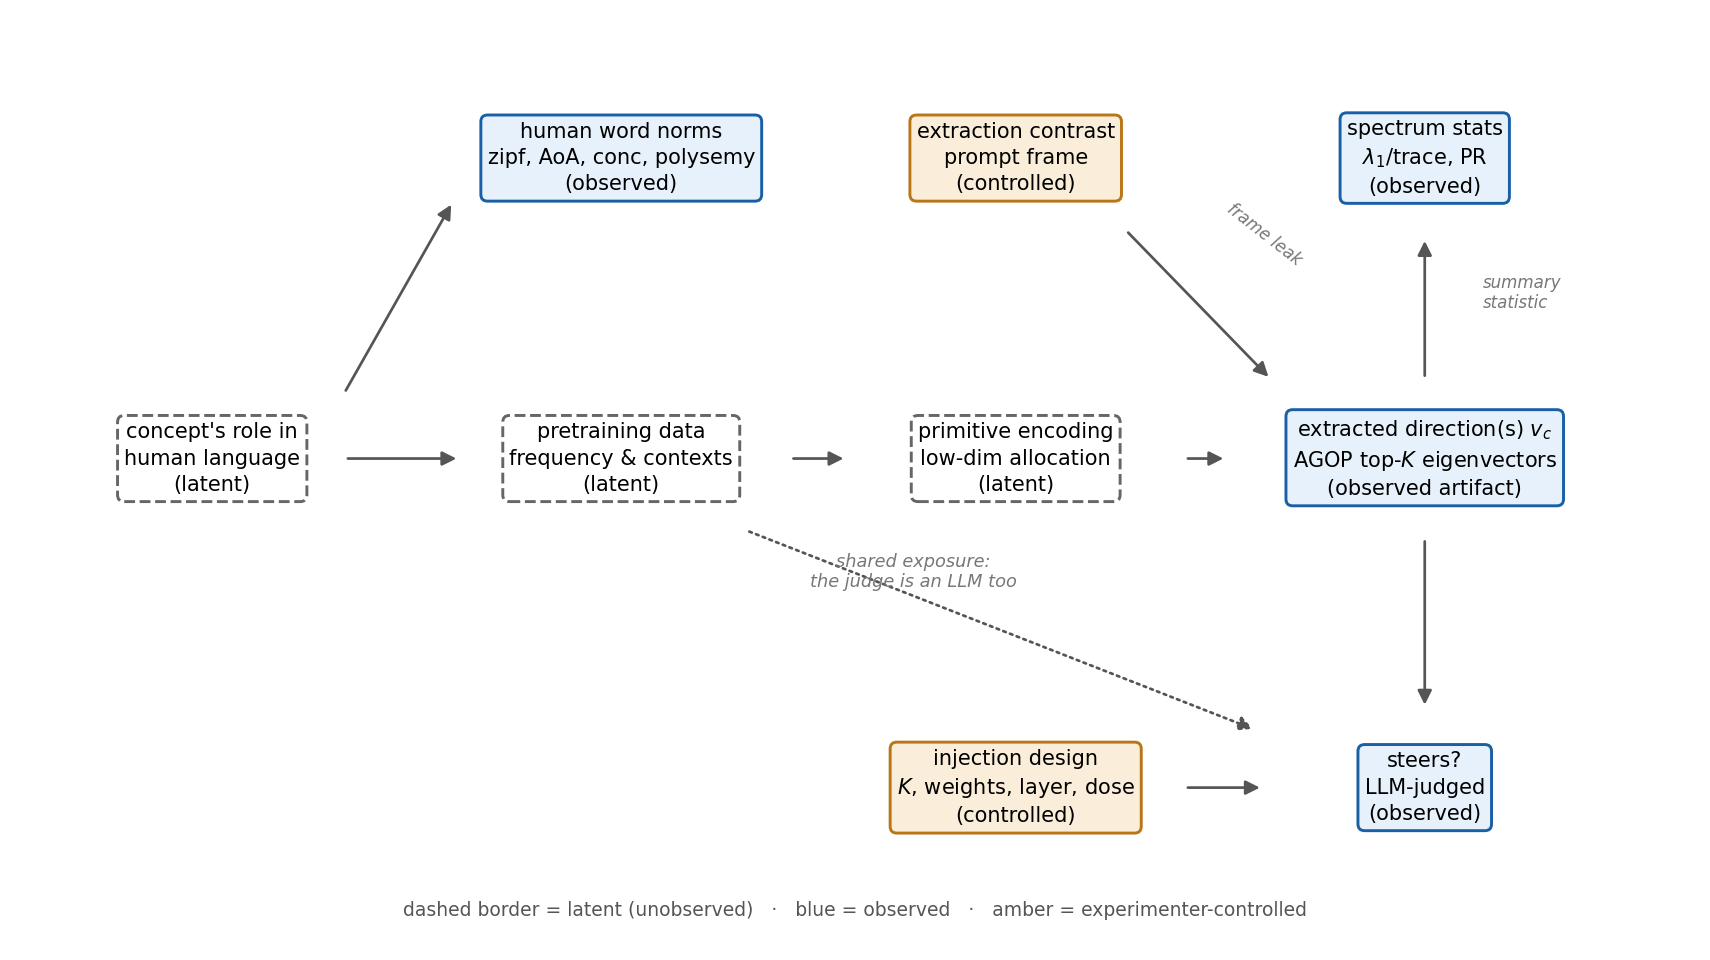
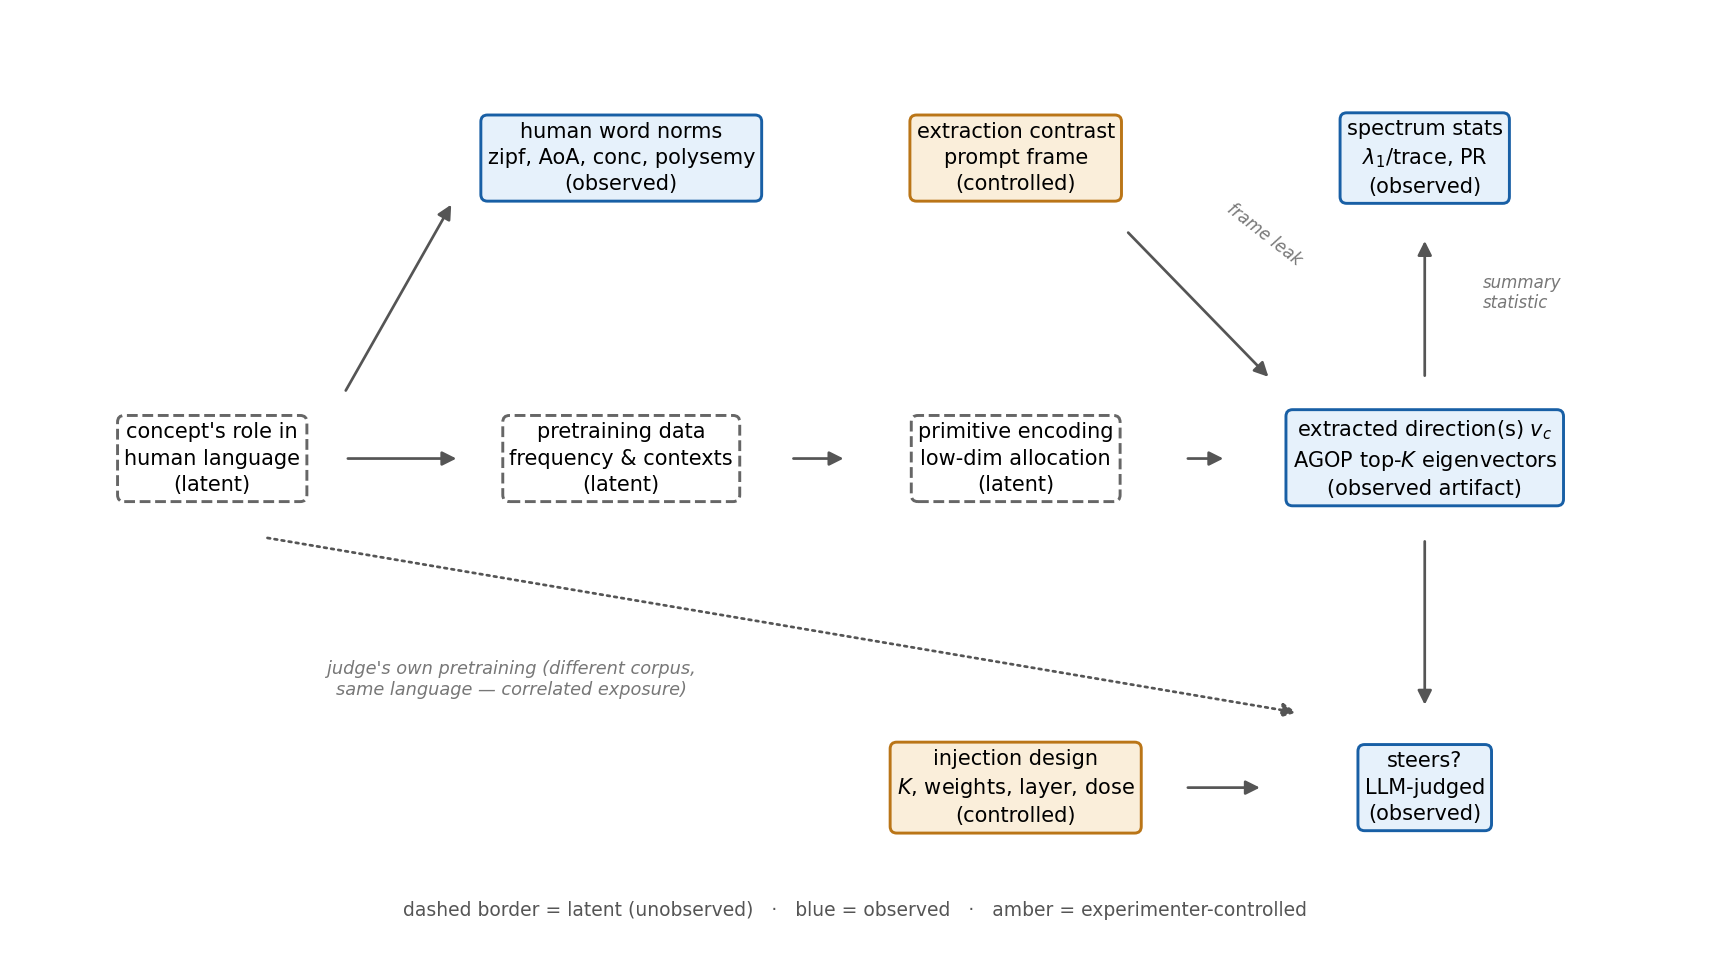
DAG corrections: judge confound rerouted via language ancestor (different corpus, correlated exposure; cross-judge agreement cited); mediation bullet honest about WordNet-grouping role and supersense coarseness

diff --git a/paper/main.tex b/paper/main.tex
@@ -223,15 +223,16 @@ experimenter-controlled. Psycholinguistic norms have no causal path into the
 model --- they predict steering only as proxies of the shared latent; the
 spectrum statistics are instrument-dependent summaries of the extracted
 direction, not the encoding itself; the dashed path marks the judge confound
-(shared pretraining exposure).}
+(the judge's own pretraining --- a different corpus, but correlated exposure
+through the same underlying language).}
 \label{fig:dag}
 \end{figure}
 
 \begin{outline}
 \item What makes a concept steerable: attributes (context-general colorings) admit a single injectable direction; instance identities require assembled, multi-stage content --- steering failure is usually \emph{delivery of the parent category}, not silence. (1 para)
 \item \textbf{What the spectral metrics are: an intervention-match score, with an instrument caveat.} Spectrum \emph{concentration} (low PR / high $\lambda_1$-share) measures how well the concept's discriminative signature fits the one move single-vector steering can make (one constant vector, all contexts); it predicts steering in both models. \textbf{The mechanism behind R2's reversal: \emph{abstract} (not concrete) concepts steer better} --- for concrete instance-like concepts the dominant direction is largely the shared category axis, so its coherence does not deliver the instance (parent-dominance). \textbf{And the caveat: spectral diagnostics of extracted directions are only interpretable relative to the contrast design that produced them} --- under the dual v2b frame $\lambda_1$/trace read as null because a frame-register axis could capture the top eigenvalue slot (Appendix~B); under the constant v4 prefix it predicts steering with the expected sign. (1 para)
-\item \textbf{[NEW jul12] A causal reading of the results (Figure~\ref{fig:dag}).} The concept's role in human language (latent) drives both the psycholinguistic norms --- observed proxies with \emph{no causal path into the model} --- and the concept's distribution in pretraining (latent), which determines whether the model allocates it a compact subspace (latent). The extracted direction $v_c$ is a \emph{joint} product of that allocation and the extraction contrast (the frame-leak arrow is the v2b lesson); the spectrum statistics are summary statistics of $v_c$; the outcome depends on $v_c$ and the injection design. Two consequences: (i) lexical coefficients surviving spectral controls is expected even under full mediation, because $\lambda_1$/trace is a noisy, instrument-dependent indicator of the latent allocation; (ii) the judge shares pretraining exposure with the steered model (dashed path) --- the prompted-ceiling control bounds, but does not eliminate, this. K$>$1's failure is a statement about the outcome node's structural equation: injection must match the allocation's weighting, possibly non-linearly, not merely its rank. (1 para + figure)
-\item \textbf{[NEW jul12] Mediation probe (executed): in Llama, concreteness works through the direction's \emph{global}-axis loading --- not the WordNet-category axis.} Each direction's shared-component loading decomposes into a global axis (sign-aligned mean of all 600 directions; mean $|\cos| = 0.82$ --- a frame/register component) and a category-specific residual share (mean $0.45$). Adding both to the lexical regression absorbs concreteness ($-0.20^{*} \to -0.08$ n.s.) via the global share ($-0.42^{**}$; AIC $799 \to 783$), while the category-specific share carries nothing ($-0.01$). This is direct statistical evidence for the dominance mechanism, but it relocates it: what eats concrete concepts at the read depth is loading on a corpus-generic axis, not the supersense parent --- and the test does \emph{not} assume the model's hierarchy matches WordNet's (both axes are estimated from the model's own directions; WordNet supplies only the grouping, which turns out not to carry the signal). \textbf{Does not replicate in Gemma} (global share $+0.17^{\dagger}$, opposite sign; concreteness unchanged) --- reported as a Llama finding. \texttt{nb\_axis\_mediation.py}. (1 para)
+\item \textbf{[NEW jul12] A causal reading of the results (Figure~\ref{fig:dag}).} The concept's role in human language (latent) drives both the psycholinguistic norms --- observed proxies with \emph{no causal path into the model} --- and the concept's distribution in pretraining (latent), which determines whether the model allocates it a compact subspace (latent). The extracted direction $v_c$ is a \emph{joint} product of that allocation and the extraction contrast (the frame-leak arrow is the v2b lesson); the spectrum statistics are summary statistics of $v_c$; the outcome depends on $v_c$ and the injection design. Two consequences: (i) lexical coefficients surviving spectral controls is expected even under full mediation, because $\lambda_1$/trace is a noisy, instrument-dependent indicator of the latent allocation; (ii) the judge is itself an LLM whose \emph{own} pretraining (a different corpus, but the same underlying language) descends from the same latent, so rare concepts are rare for the judge too (dashed path); this is bounded empirically by the prompted-ceiling control and by cross-judge agreement --- gpt-oss and Claude Sonnet produce identical per-class breakdowns on a fixed 360-item set (Appendix~F), and our aggregates agree with the RFM paper's ChatGPT-judged results. K$>$1's failure is a statement about the outcome node's structural equation: injection must match the allocation's weighting, possibly non-linearly, not merely its rank. (1 para + figure)
+\item \textbf{[NEW jul12] Mediation probe (executed): in Llama, concreteness works through the direction's \emph{global}-axis loading --- not the WordNet-category axis.} Each direction's shared-component loading decomposes into a global axis (sign-aligned mean of all 600 directions; mean $|\cos| = 0.82$ --- a frame/register component) and a category-specific residual share (mean $0.45$). Adding both to the lexical regression absorbs concreteness ($-0.20^{*} \to -0.08$ n.s.) via the global share ($-0.42^{**}$; AIC $799 \to 783$), while the category-specific share carries nothing ($-0.01$). This is direct statistical evidence for the dominance mechanism, but it relocates it: what eats concrete concepts at the read depth is loading on a corpus-generic axis, not the supersense parent. Two caveats on the category null: the WordNet grouping \emph{does} pick out real structure in the model's geometry (within-supersense residual alignment $0.45$ vs.\ ${\approx}0.01$ for random directions), so the construct is model-meaningful --- but its share not predicting steering may still reflect supersense-level parents being too \emph{coarse} (the qualitative failures deliver fine-grained parents: \emph{city} for Edinburgh, not \emph{location}); a finer-grained hypernym grouping is the natural follow-up. \textbf{Does not replicate in Gemma} (global share $+0.17^{\dagger}$, opposite sign; concreteness unchanged) --- reported as a Llama finding. \texttt{nb\_axis\_mediation.py}. (1 para)
 \item \textbf{Measured steerability is instrument-dependent --- and so is cross-model generality.} Changing one frame sentence doubles the steerable share in both models (19.8$\to$41.5\% Llama; 18.8$\to$37.3\% Gemma) and \emph{raises} cross-model item agreement ($\phi$ 0.33$\to$0.43) and category-profile agreement ($r$ 0.12$\to$0.44). Absolute rates from any single protocol should not be read as properties of the model alone; but the \emph{laws} (frequency $+$, concreteness $-$, AoA $-$, polysemy $-$, spectrum concentration $-$) survive instrument change and model change in sign (frequency's joint-model coefficient clears significance only in Llama), which is the paper's strongest generality claim. (half para)
 \item \textbf{Depth structure: concepts live in depth windows, ordered by abstractness.} Attributes are injectable from $\sim$30\% depth onward with a broad plateau; entity identities switch on sharply at $\sim$45\% (window 14--17 of 32) and fade late; personas need multi-site injection. One well-chosen layer nearly matches all-layer steering (71 vs.\ 77 of 90) --- ``all layers'' mostly buys window coverage. Read-side extraction statistics do not locate the window (they miss the late decline entirely): injectability is a write property. (half para)
 \item Status of extracted vectors: the residual stream has no privileged basis, so extracted directions are \emph{experiment-relative}; within-model relational claims are valid, coordinate-level and raw cross-model comparisons are not. Anchored spaces (embedding/unembedding, MLP neurons) are where mechanism pins a frame. (half para)
